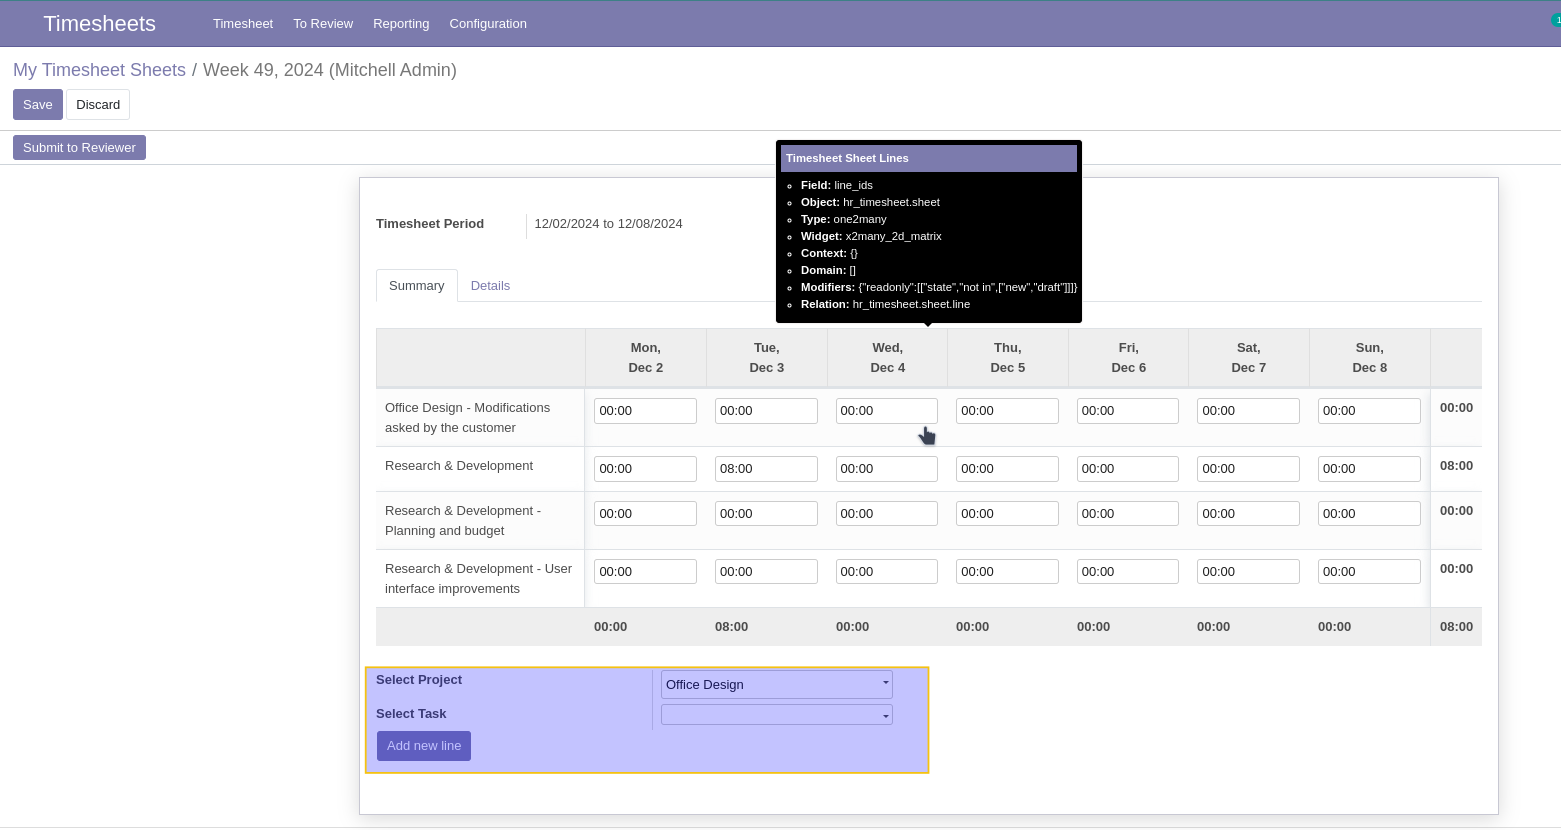
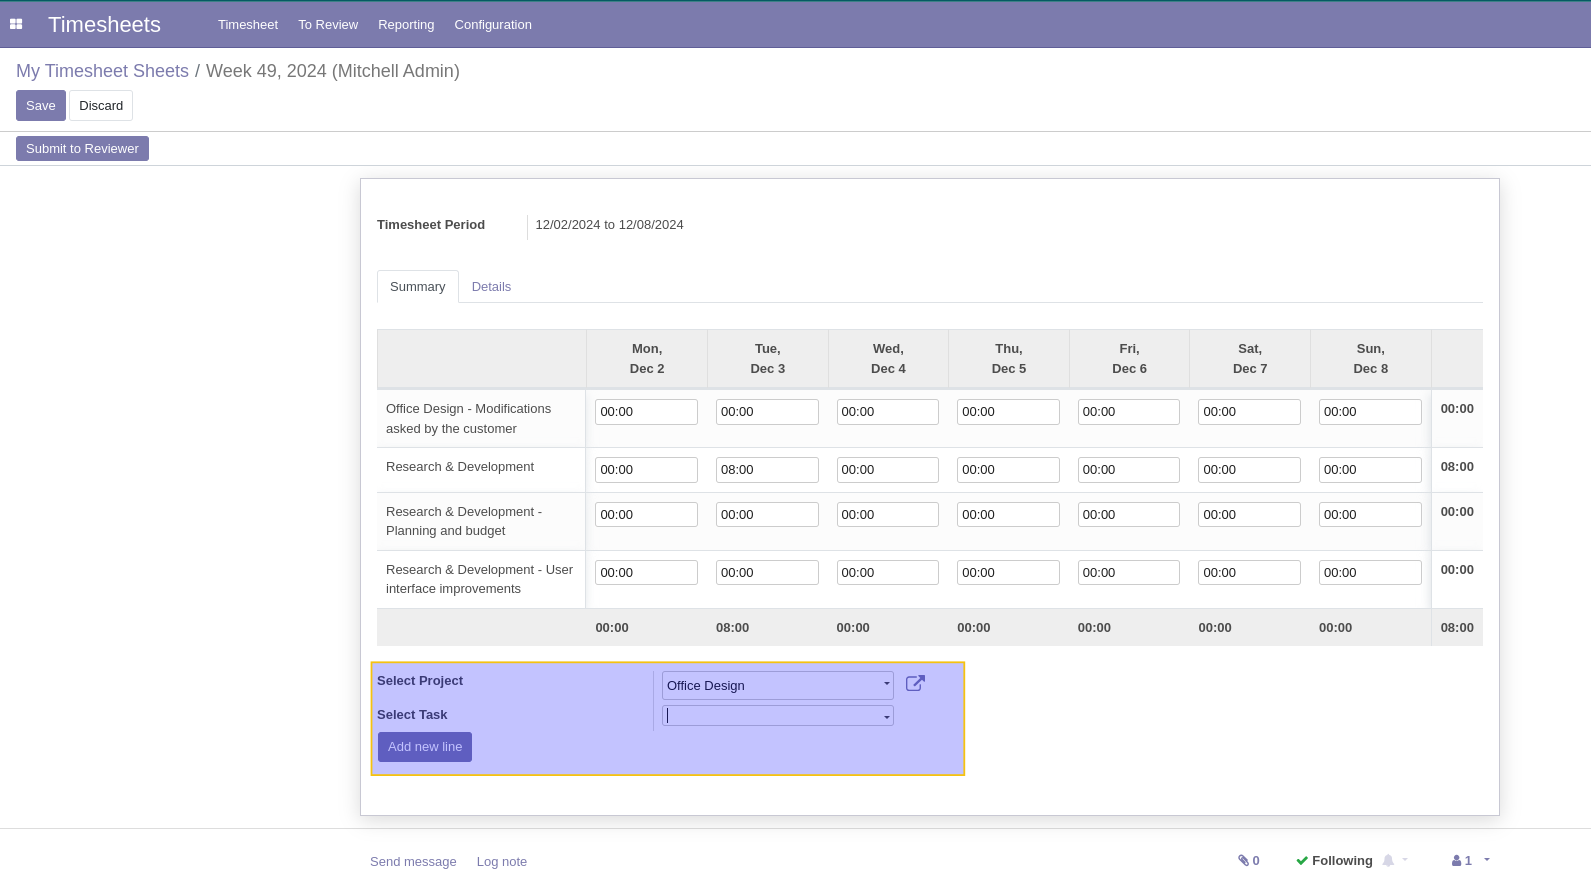
[UP] Version timesheet_filter_closed_task

diff --git a/timesheet_filter_closed_task/models/hr_timesheet_sheet.py b/timesheet_filter_closed_task/models/hr_timesheet_sheet.py
@@ -19,14 +19,12 @@ class Sheet(models.Model):
 
     @api.onchange("add_line_project_id")
     def onchange_add_project_id(self):
-        """Load the project to the timesheet sheet"""
+        """Load the project to the timesheet sheet with safe domain update"""
+        res = super().onchange_add_project_id() or {}
+
         if self.add_line_project_id:
-            return {
-                "domain": {"add_line_task_id": self._task_domain()},
-            }
-        else:
-            return {
-                "domain": {
-                    "add_line_task_id": [("id", "=", False)],
-                },
-            }
+            domain = self._task_domain()
+            res.setdefault("domain", {})
+            res["domain"]["add_line_task_id"] = domain
+
+        return res

diff --git a/timesheet_filter_closed_task/__manifest__.py b/timesheet_filter_closed_task/__manifest__.py
@@ -3,7 +3,7 @@
 
 {
     "name": "Timesheet filter closed task",
-    "version": "12.0.1.0.0",
+    "version": "12.0.1.0.1",
     "author": "Numigi",
     "maintainer": "Numigi",
     "website": "https://bit.ly/numigi-com",
